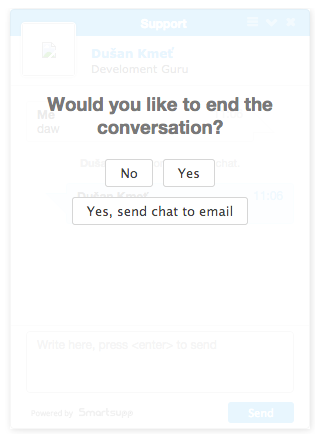
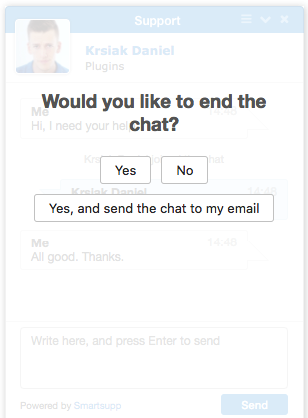
screenshots updated

diff --git a/_docs/chat-box/configurable-parts.md b/_docs/chat-box/configurable-parts.md
@@ -40,6 +40,10 @@ When the visitor wants to end conversation a confirmation window is displayed. I
 
 This is option is displayed by default. It shows a button which sends transcript to email.
 
+```js
+_smartsupp.sendEmailTanscript = true;
+```
+
 ![transcript enabled](/assets/img/docs/configurable-parts/transcript-enabled.png)
 
 ### transcript button disabled
@@ -47,34 +51,34 @@ This is option is displayed by default. It shows a button which sends transcript
 If you do not need this feature in your chat box you can disable it.
 
 ```js
-_smartsupp.sendEmailTanscript = false; // default value = true
+_smartsupp.sendEmailTanscript = false;
 ```
 
 ![transcript disabled](/assets/img/docs/configurable-parts/transcript-disabled.png)
 
 ## Rating window
 
-After visitor ends conversation a rating window is displayed. You can add a text box for visitor to write a comment.
+After visitor ends conversation a rating is displayed. You can add a text box for visitor to write a comment.
 
 ### simple rating (3 icons)
 
 You can display feedback icons.
 
 ```js
-_smartsupp.ratingEnabled = true; // default value = false
+_smartsupp.ratingEnabled = true;
 ```
 
-![rating simple](/assets/img/docs/configurable-parts/rating-simple.png)
+![rating simple](/assets/img/docs/configurable-parts/rating-simple.gif)
 
 ### rating with a comment
 
 You can display feedback icons including text area for a comment.
 
 ```js
-_smartsupp.ratingComment = true; // default value = false
+_smartsupp.ratingComment = true;
 ```
 
-![rating with comment](/assets/img/docs/configurable-parts/rating-with-comment.png)
+![rating with comment](/assets/img/docs/configurable-parts/rating-with-comment.gif)
 
 ## Chat box design type
 
@@ -112,13 +116,9 @@ If you are using pre-chat form, you can customize the form fields. Default field
 
 ### Pre-chat form default
 
-`no code example, some text only`
+You can turn this option on in **Smarstupp Dashboard > Chat box > [Options](https://www.smartsupp.com/app/settings/chatbox/options){:target='\_blank'} > Show pre-chat form**
 
-```js
-xyz;
-```
-
-`!img`
+![pre-chat form default](/assets/img/docs/configurable-parts/pre-chat-form-default.png)
 
 ### Pre-chat form with textinput
 
@@ -128,7 +128,7 @@ This field can be used for example for entering phone number.
 xyz;
 ```
 
-`!img`
+![pre-chat form default](/assets/img/docs/configurable-parts/pre-chat-form-with-text-input.png)
 
 ### Pre-chat form with select
 
@@ -137,21 +137,19 @@ x
 `!img`
 
 ```js
-_smartsupp.requireLogin = true;
-// hide default name input
-_smartsupp.loginNameControl = false;
-// append custom controls
 _smartsupp.loginControls = [
   {
     xtype: "select",
-    name: "problem",
-    label: "Reason",
+    name: "group",
+    label: "Department",
     required: true,
-    value: "error", // pre-selected value
+
+    // use group IDs from Smartsupp dashboard
+    value: "PJxWeH8LZNi", // set default group
     items: {
-      normal: "Normal question",
-      error: "Error report",
-      other: "Something else"
+      PJxWeH8LZNi: "Support",
+      tuZOw6k9Oto: "Marketing",
+      "9OtIZKLaVep": "Sales"
     }
   }
 ];
